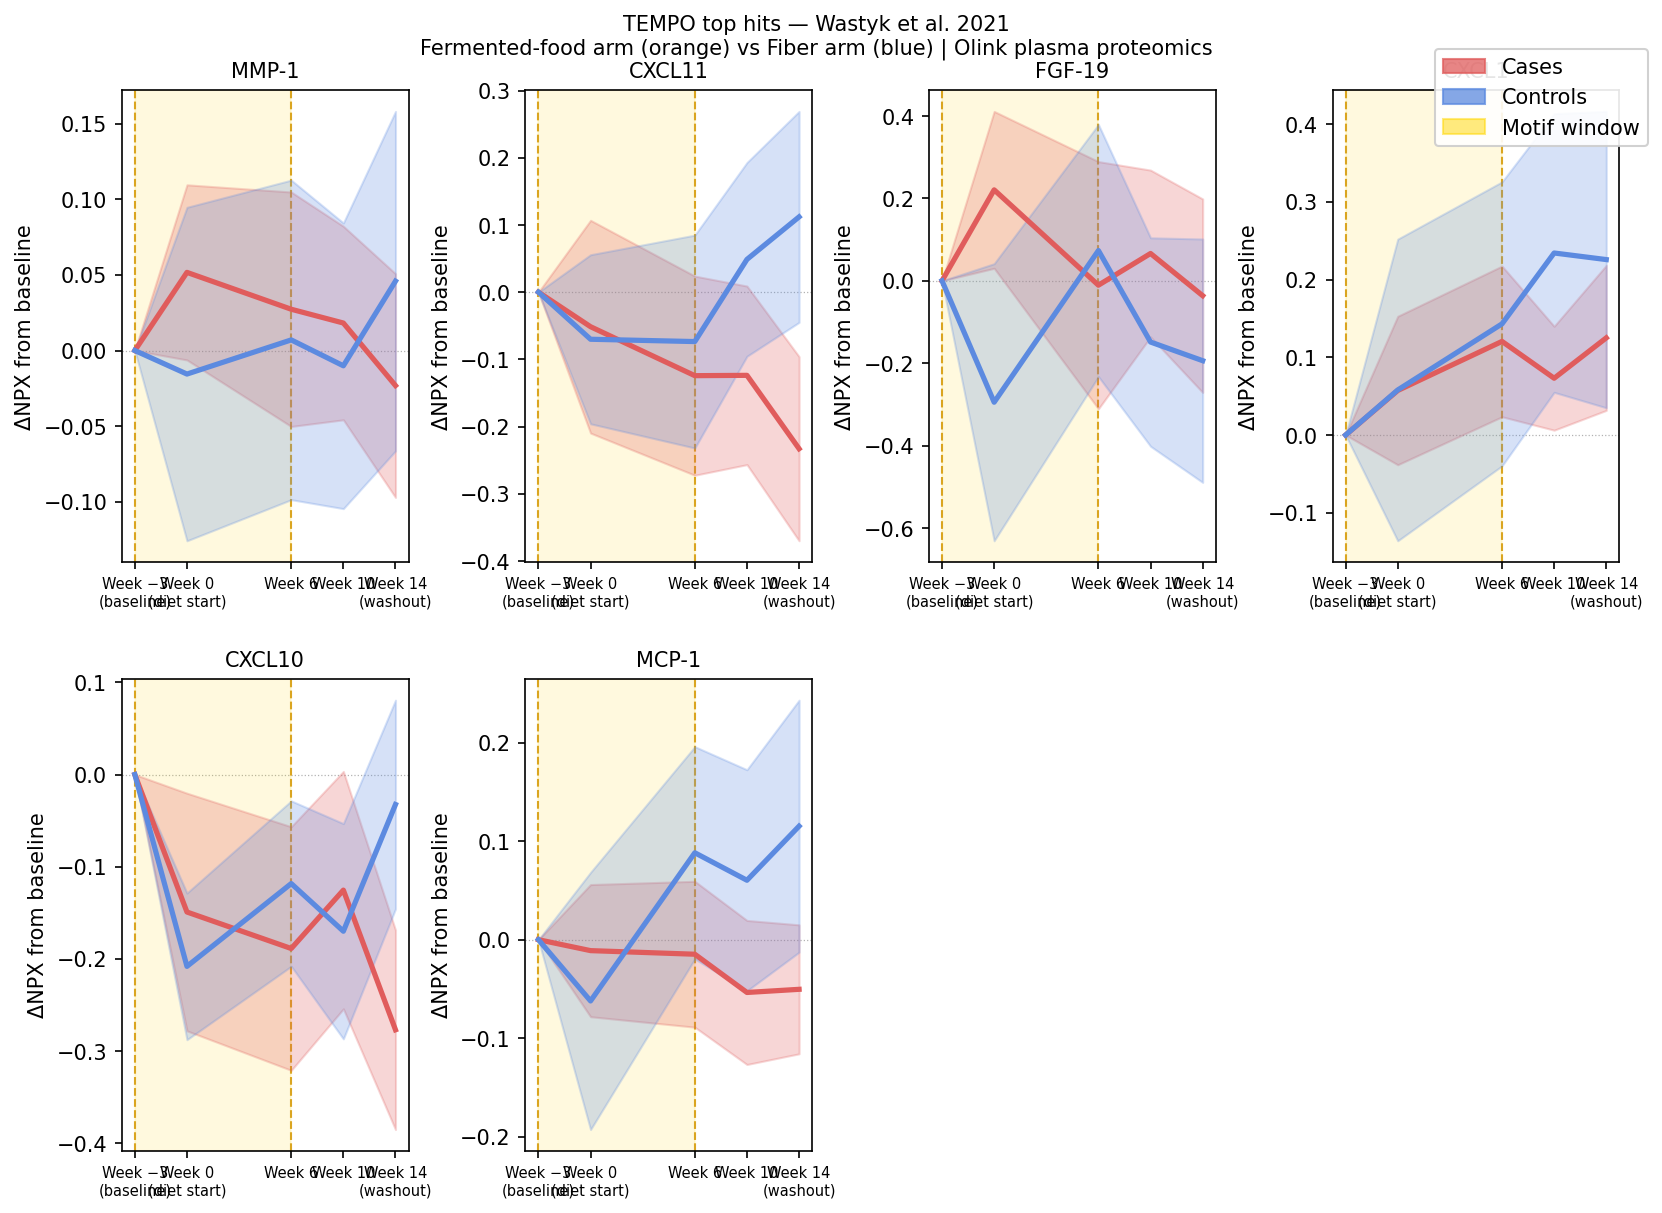
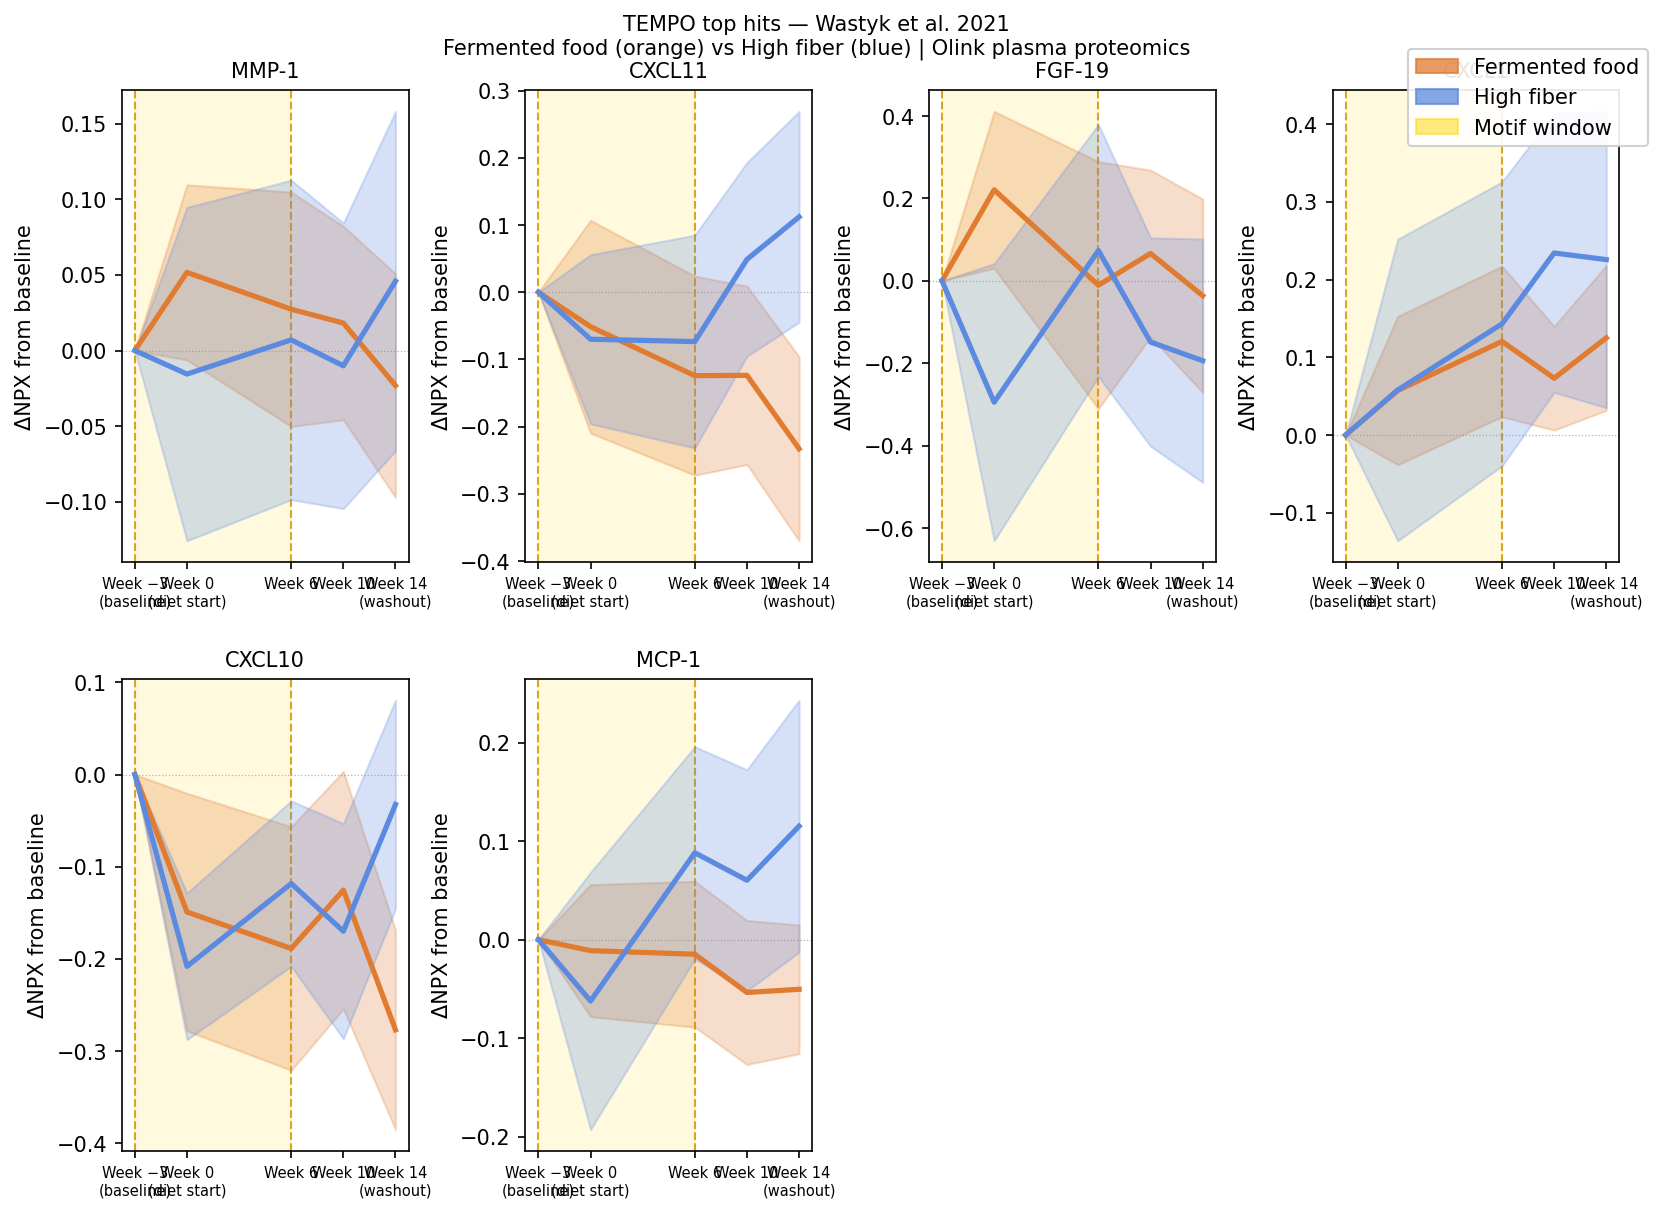
Fix case color to orange; fix Fig 1 legend labels for Olink viz
_CASE_COLOR was #e05c5c (red), not the orange described in the title.
Changed to #e07b30 (orange) throughout viz.py and viz_olink.py. Also
replaced the generic 'Cases/Controls' legend in Fig 1 with study-specific
'Fermented food / High fiber' labels matching the figure title.

diff --git a/viz_olink.py b/viz_olink.py
@@ -55,9 +55,19 @@ for ax in [a for a in fig1.axes if a.get_visible()]:
     ax.set_xlabel('')
     ax.axhline(0, color='gray', lw=0.6, ls=':', zorder=0, alpha=0.6)
 
+# Override generic legend with study-specific labels
+case_color = '#e07b30'
+ctrl_color = '#5c8ae0'
+fig1.legends[0].remove()
+fig1.legend(handles=[
+    mpatches.Patch(color=case_color, alpha=0.75, label='Fermented food'),
+    mpatches.Patch(color=ctrl_color, alpha=0.75, label='High fiber'),
+    mpatches.Patch(color='gold',     alpha=0.5,  label='Motif window'),
+], loc='upper right', bbox_to_anchor=(1.01, 1.0), framealpha=0.9)
+
 fig1.suptitle(
     'TEMPO top hits — Wastyk et al. 2021\n'
-    'Fermented-food arm (orange) vs Fiber arm (blue) | Olink plasma proteomics',
+    'Fermented food (orange) vs High fiber (blue) | Olink plasma proteomics',
     fontsize=10, y=1.02,
 )
 fig1.savefig('olink_motifs.png', dpi=150, bbox_inches='tight')
@@ -74,7 +84,7 @@ fig2.savefig('olink_enrichment.png', dpi=150, bbox_inches='tight')
 print("Saved olink_enrichment.png")
 
 # ── Fig 3: mean ± SD ribbon for top 6 hits (baseline-normalised) ─────────────
-case_color = '#e05c5c'
+case_color = '#e07b30'
 ctrl_color = '#5c8ae0'
 tps = sorted(long['timepoint'].unique())
 first_tp = tps[0]

diff --git a/tempo/viz.py b/tempo/viz.py
@@ -22,7 +22,7 @@ import seaborn as sns
 from typing import Optional
 
 # Consistent colour palette used across both functions
-_CASE_COLOR = "#e05c5c"
+_CASE_COLOR = "#e07b30"
 _CTRL_COLOR = "#5c8ae0"
 _WINDOW_COLOR = "gold"
 _SIG_COLOR = "#c0392b"
